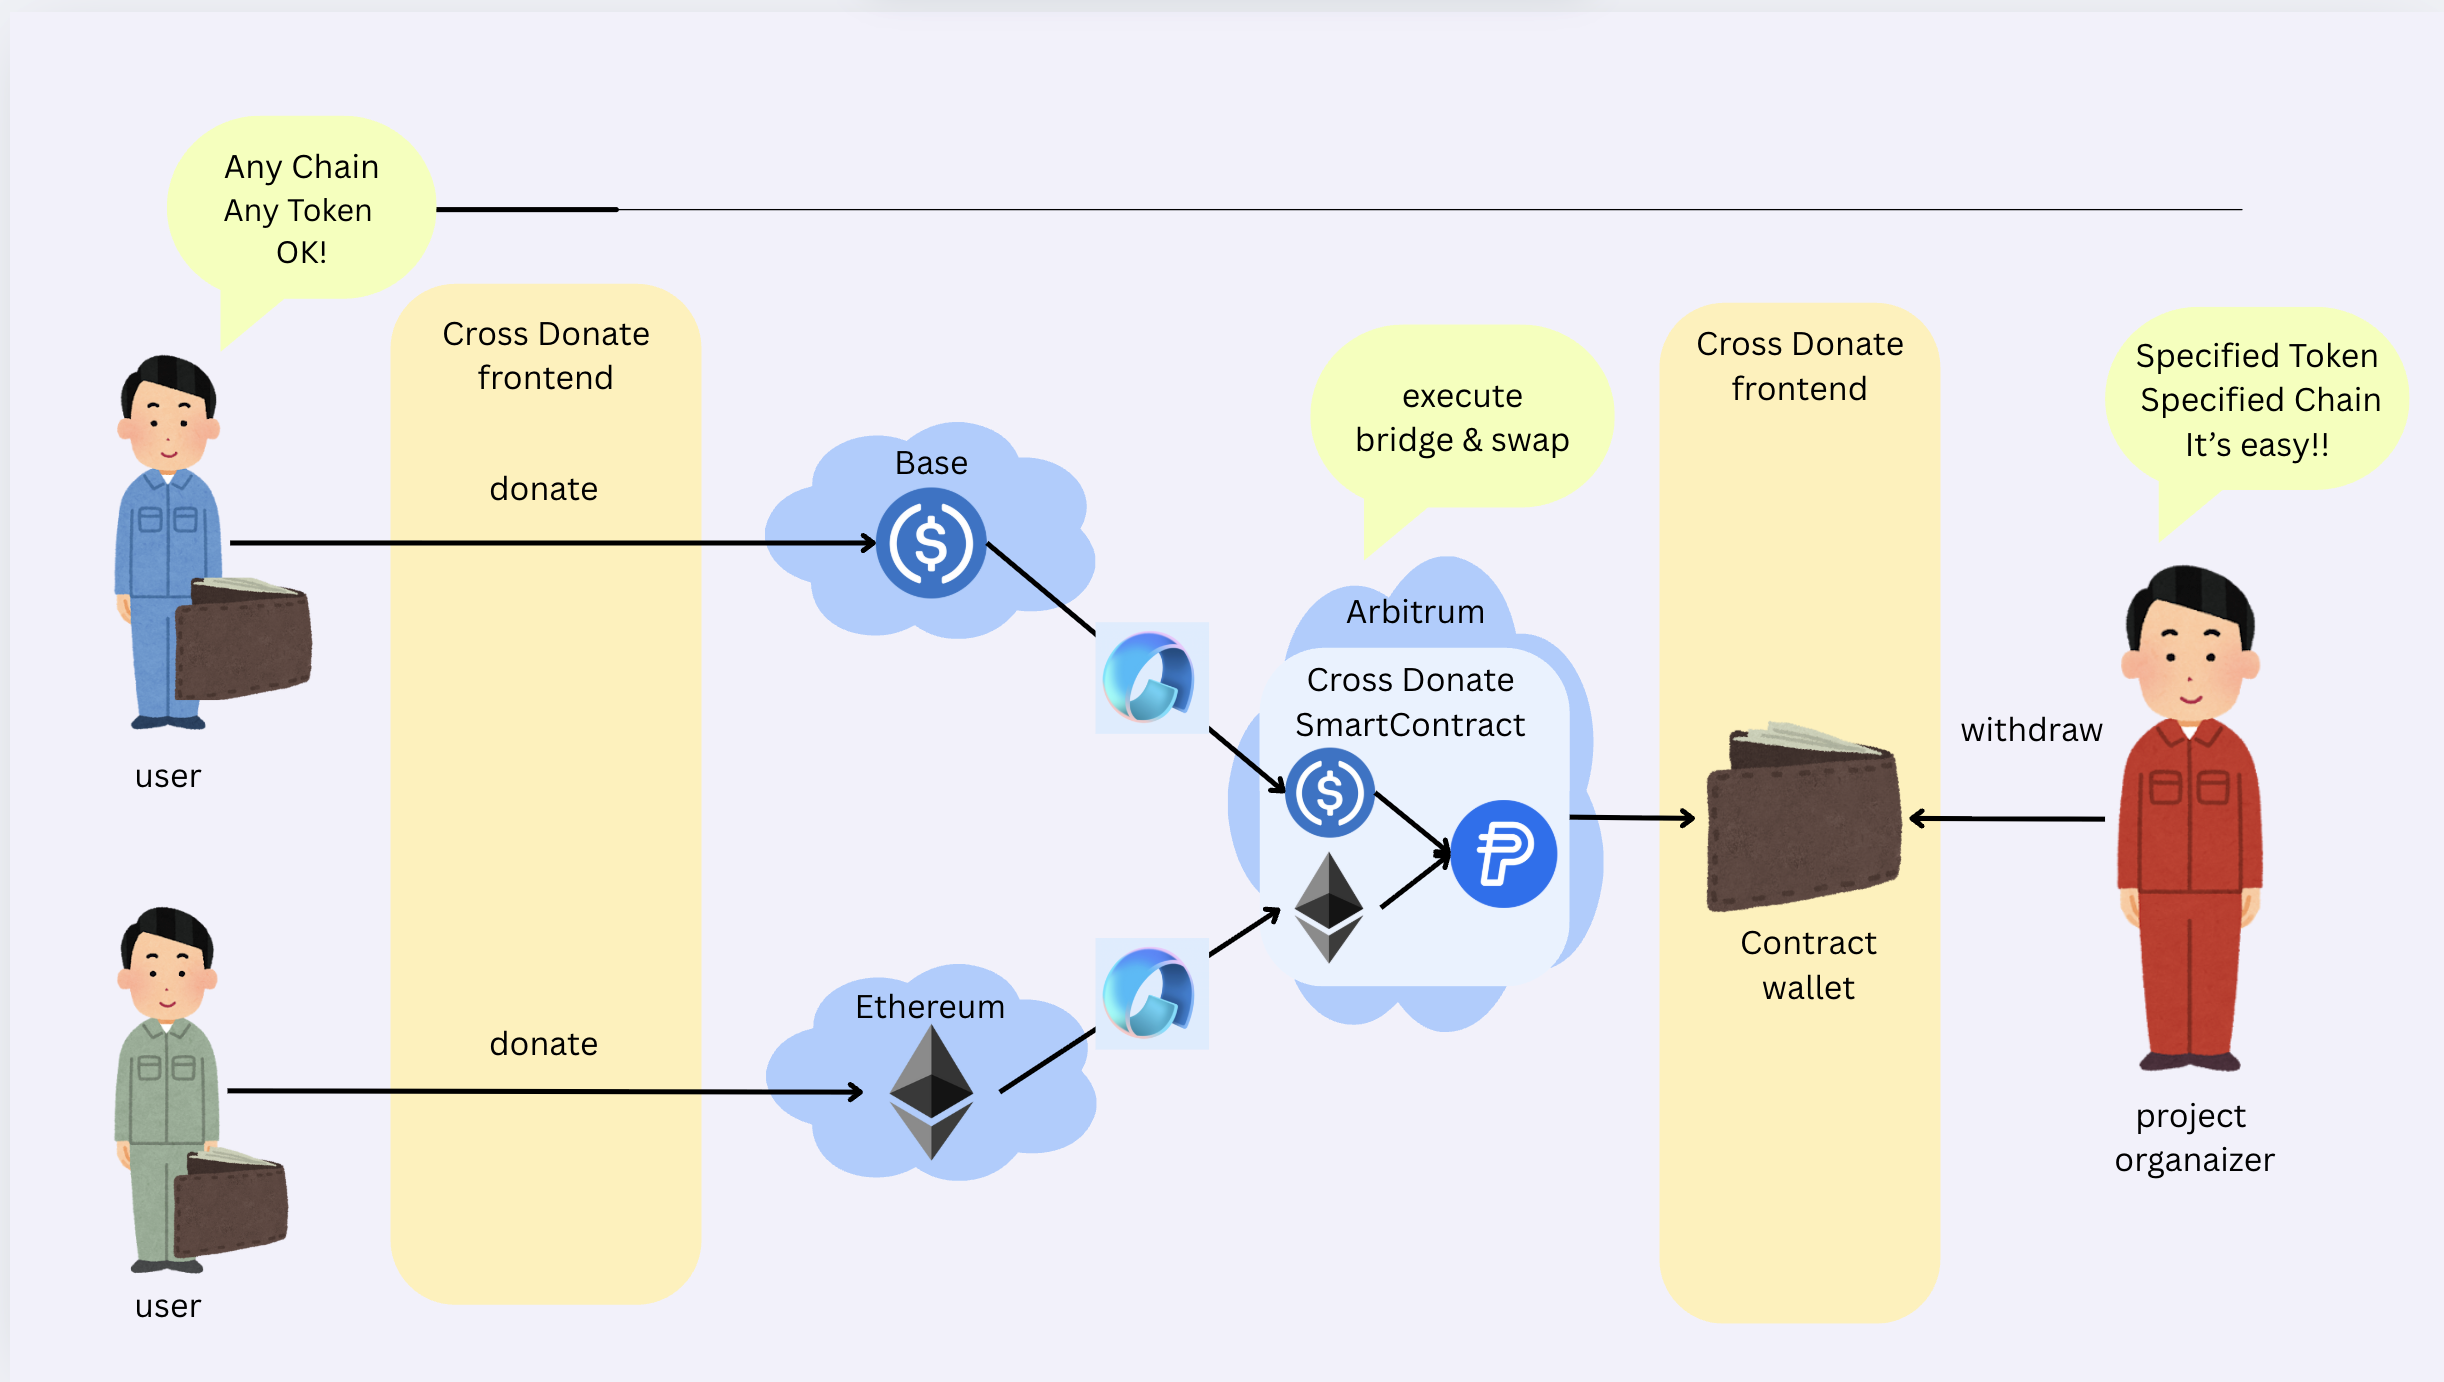
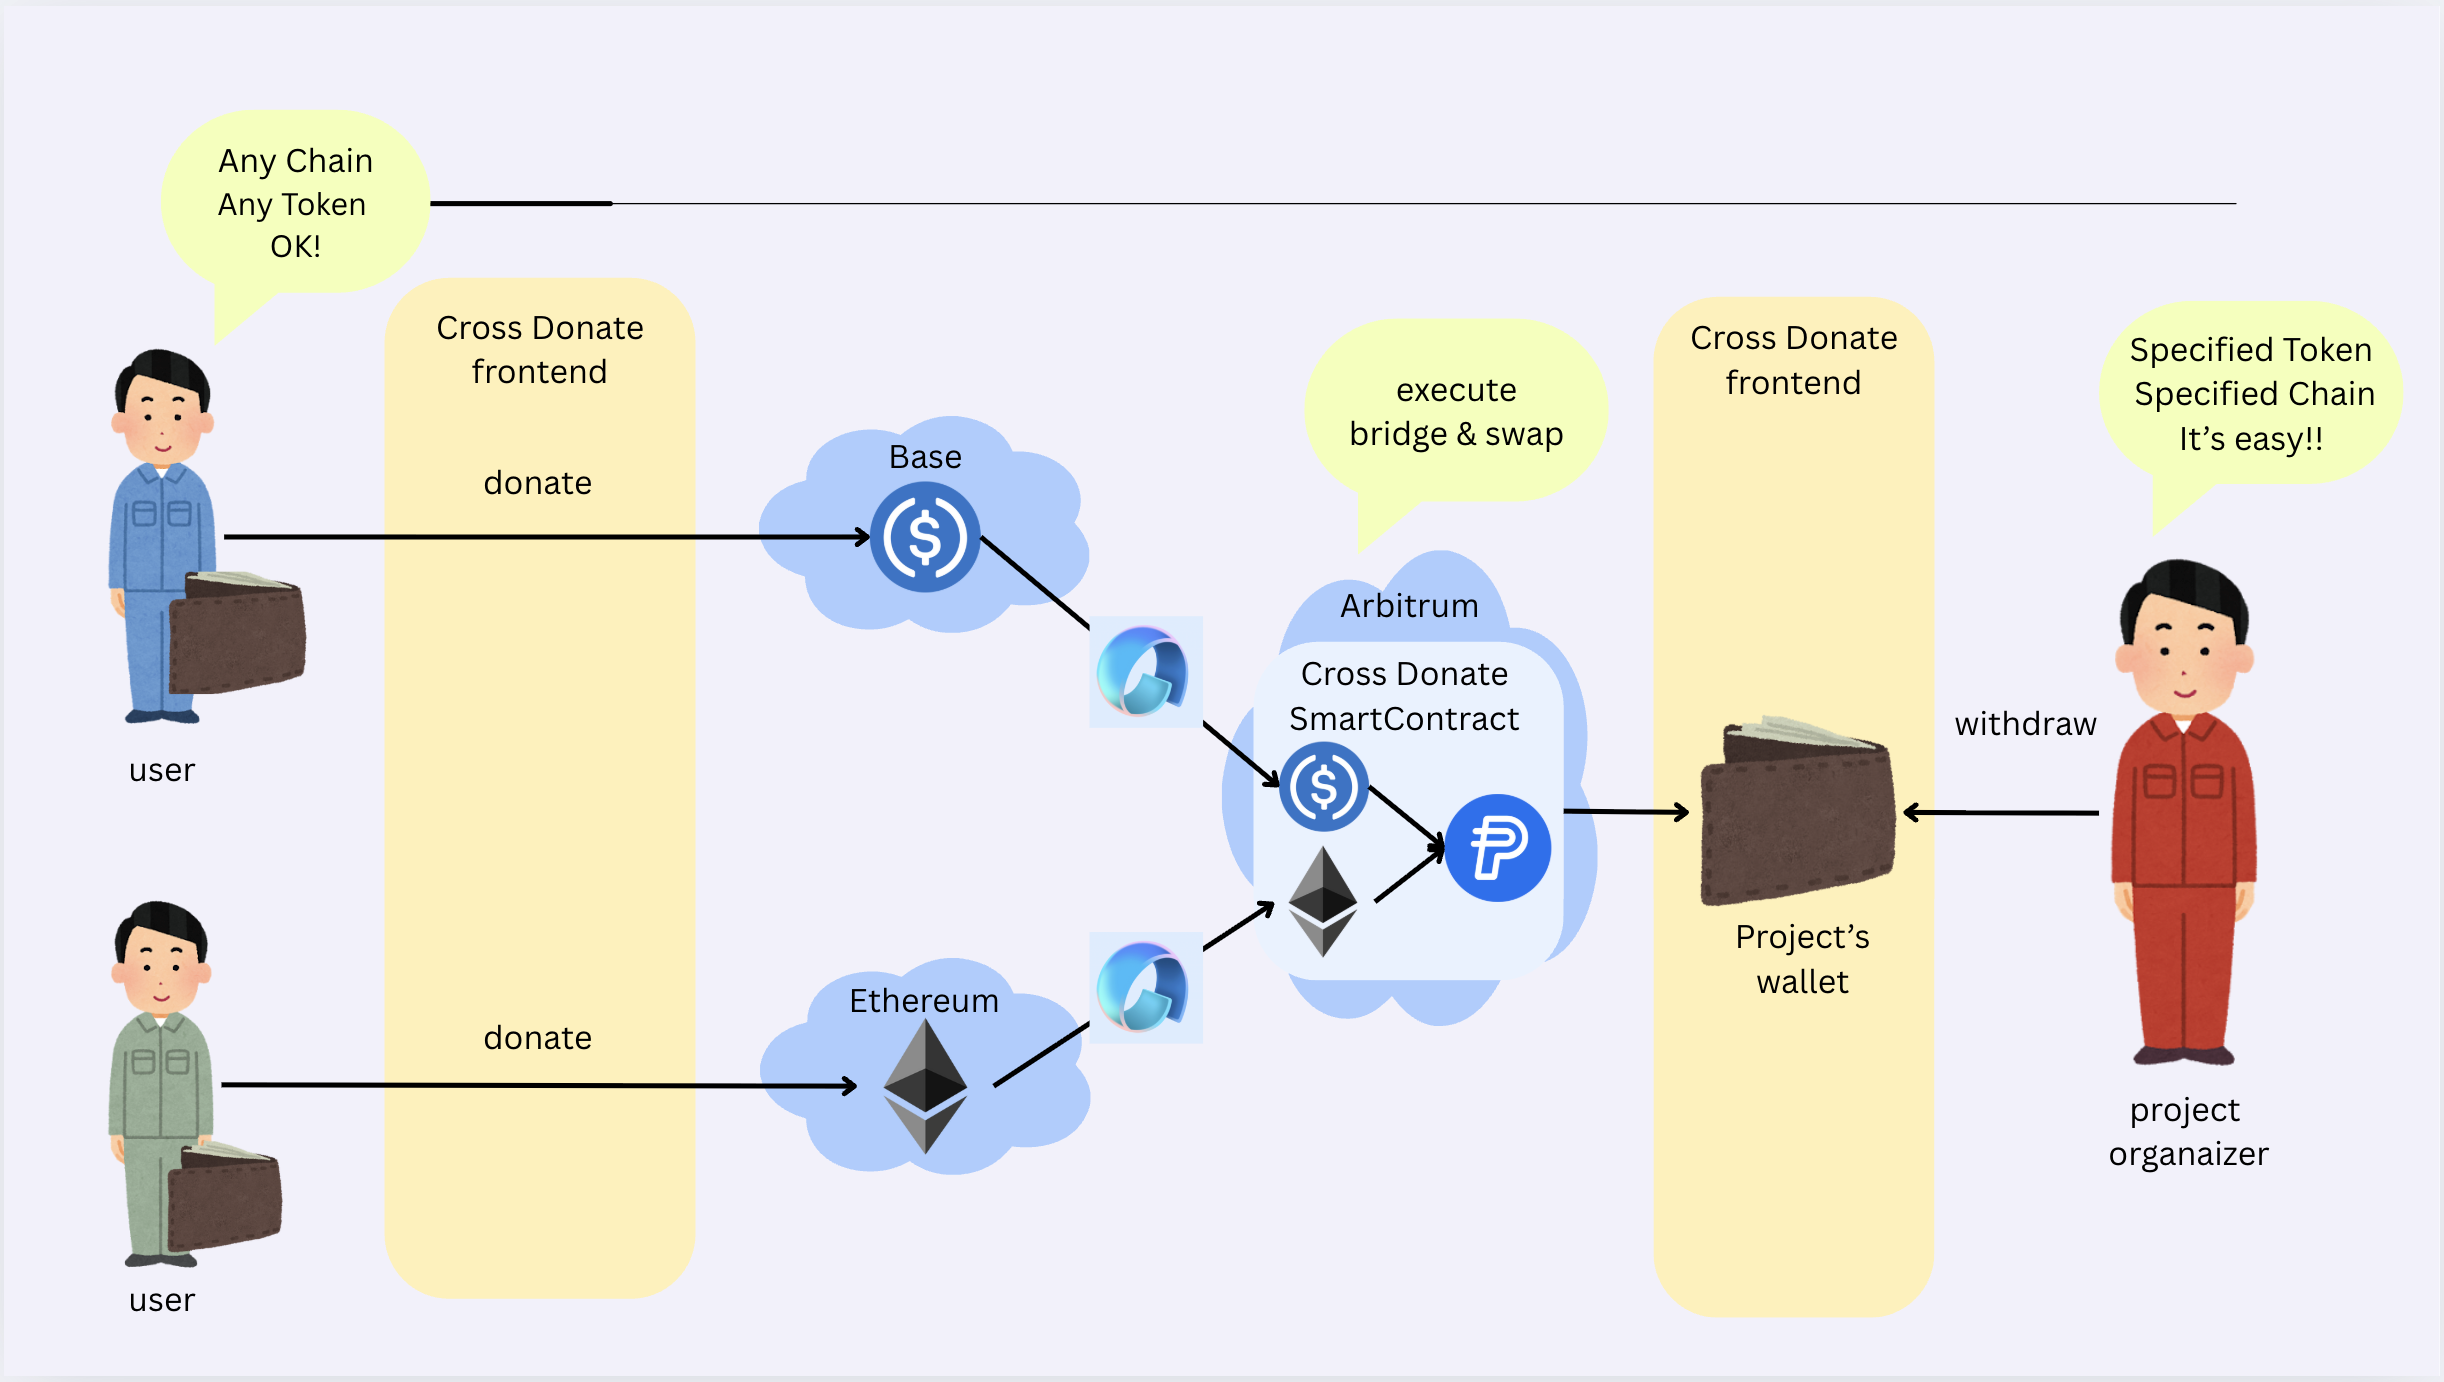
Update README and add future vision assets

diff --git a/README.md b/README.md
@@ -4,12 +4,15 @@ Universal Non-Custodial Donation Receiver
 
 ![](./docs/assets/background.png)
 
-
 > Solving Web3 donation fragmentation with unified cross-chain receiving addresses
 
 ## Overview
 
 ![](./docs/assets/overview.png)
+
+## Futute
+
+![](./docs/assets/future.png)
 
 ## Project Overview
 

diff --git a/README_ja.md b/README_ja.md
@@ -10,6 +10,10 @@
 
 ![](./docs/assets/overview.png)
 
+## 将来像
+
+![](./docs/assets/future.png)
+
 ## プロジェクトの概要
 
 ### 課題
